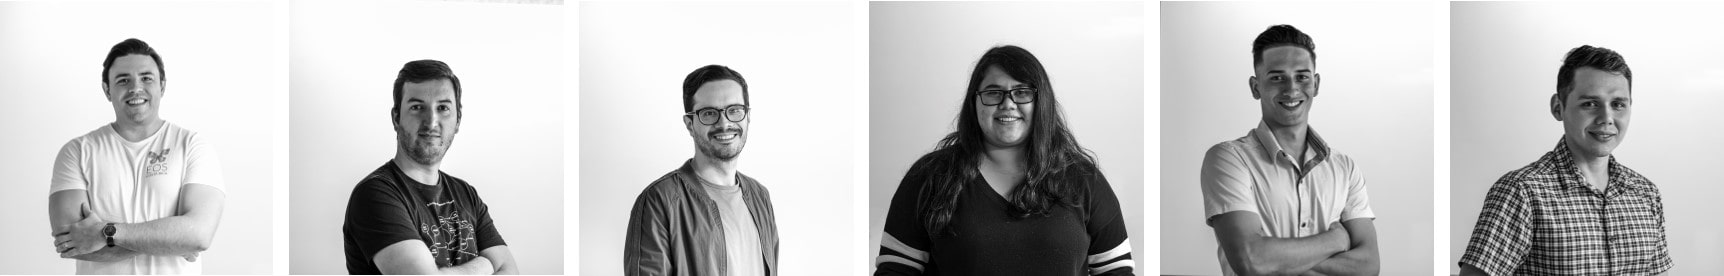
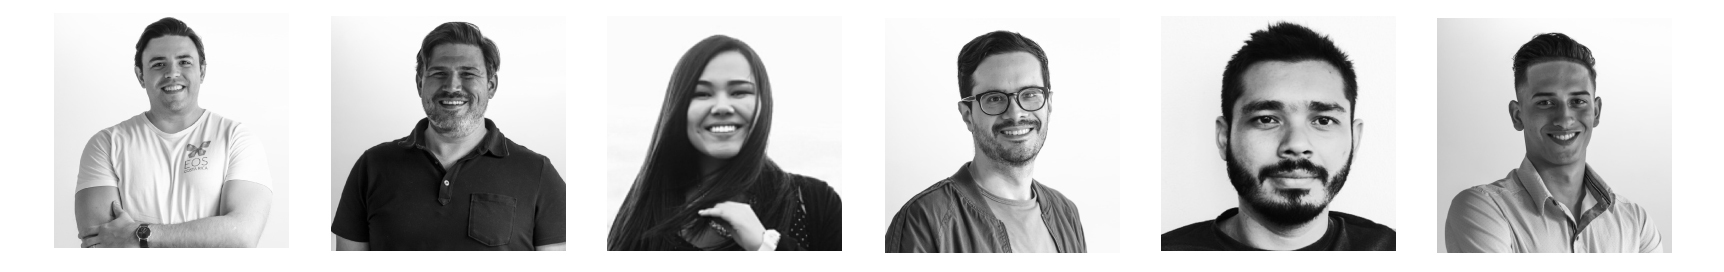
Content changes (#126)
* content(blog): delete english blog-post

* content(team): update content on team page

* content(projects): update projects content

* fix(projects): change logos sizes

diff --git a/src/pages/proyectos.js b/src/pages/proyectos.js
@@ -16,7 +16,14 @@ const MetaData={
   hrefLangPath: "https://eoscostarica.io/projects"
 }
 
-const ProjectsList = [
+const ProjectsList1 = [
+  {
+    img:"img/logos/eosrate.svg",
+    name:"EOS Rate",
+    details:"EOS Rate es una app de código abierto que permite a titulares de tokens EOS acceder a un sistema de calificaciones y portal de votación para productores de bloques y proxies en la blockchain EOS. ",
+    link:"https://eosrate.io/",
+    linkText:"Explore EOS Rate."
+  },
   {
     img:"img/logos/eosio.svg",
     name:"EOSIO Dashboard",
@@ -24,22 +31,17 @@ const ProjectsList = [
     link:"https://mainnet.eosio.online/",
     color:"#f8f8f8",
     linkText:"Monitor de red del EOS Mainnet."
-  },
+  }
+]
+
+const ProjectsList2 = [
   {
     img:"img/logos/ggoods.svg",
     name:"gGoods",
     details:"gGoods es un estándar para NFTs de código abierto que permite a organizaciones crear tokens para buscar financiamiento. Los donantes pueden usar sus NFTs como activos en juegos y apps. Lea más sobre gGoods. ",
     link:"https://ggoods.io/",
-    color:"#ffffff",
-    linkText:"Lea más sobre gGoods."
-  },
-  {
-    img:"img/logos/eosrate.svg",
-    name:"EOS Rate",
-    details:"EOS Rate es una app de código abierto que permite a titulares de tokens EOS acceder a un sistema de calificaciones y portal de votación para productores de bloques y proxies en la blockchain EOS. ",
-    link:"https://eosrate.io/",
     color:"#f8f8f8",
-    linkText:"Explore EOS Rate."
+    linkText:"Lea más sobre gGoods."
   },
   {
     img:"img/logos/inmutrust.svg",
@@ -52,10 +54,10 @@ const ProjectsList = [
   {
     img:"img/logos/eosioforum.svg",
     name:"Enterprise EOSIO Forum",
-    details:"Somos parte del Enterprise EOSIO Forum, una iniciativa de la comunidad para discutir sobre soluciones empresariales en blockchain implementando la tecnología EOSIO.",
+    details:"We are part of the Enterprise EOSIO Forum, a community-driven initiative to discuss enterprise blockchain solutions deploying EOSIO technology. ",
     link:"https://www.linkedin.com/company/enterprise-eosio-forum/",
     color:"#f8f8f8",
-    linkText:"Más sobre Enterprise EOSIO Forum."
+    linkText:"More about Enterprise EOSIO Forum."
   },
   {
     img:"img/logos/evodex.svg",
@@ -163,6 +165,17 @@ const OurProjects = () => {
       <Box className={clsx("containerSec", "reduceMarginTop")}>
         <Box className={clsx("section",{["sectionPadding"]: isMobile})}>
           <Grid container>
+            {ProjectsList1.map((project) => (
+              <Projects
+                key={project.name}
+                img={useBaseUrl(project.img)}
+                name={project.name}
+                details={project.details}
+                link={project.link}
+                color={project?.color}
+                linkText={project.linkText}
+              />
+            ))}
             <Grid item xs={12} md={6}>
               <Box className="projectsGridLeft">
                 <Box className="imgBoxProjects">
@@ -194,8 +207,8 @@ const OurProjects = () => {
               <Box className="projectsGridLeft">
                 <Box className="imgBoxProjects">
                   <img
-                    alt="SMARTGATE"
-                    src={useBaseUrl("img/logos/smartgate.svg")}
+                    alt="Smart EIR"
+                    src={useBaseUrl("img/logos/smarteir.svg")}
                   />
                 </Box>
               </Box>
@@ -203,7 +216,7 @@ const OurProjects = () => {
             <Grid style={{backgroundColor:'#f8f8f8'}} item xs={12} md={6}>
               <Box className="projectsGridRight">
                 <Box className="h3Box">
-                  <h3 >SMARTGATE</h3>
+                  <h3 >Smart EIR</h3>
                 </Box>
                 <p>
                   Una plataforma basada en blockchain que brinda soluciones
@@ -211,7 +224,7 @@ const OurProjects = () => {
                   logística de contenedores y transmisión en tiempo real
                   de datos requeridos para el intercambio de carga. 
                   <a href="https://smartgate.tech/" target="_blank">
-                    Aprenda más sobre SMARTGATE.
+                    Aprenda más sobre Smart EIR.
                   </a>
                 </p>
               </Box>
@@ -251,14 +264,14 @@ const OurProjects = () => {
               </Box>
             </Grid>
           </Grid>
-          {ProjectsList.map((project) => (
+          {ProjectsList2.map((project) => (
             <Projects
               key={project.name}
               img={useBaseUrl(project.img)}
               name={project.name}
               details={project.details}
               link={project.link}
-              color={project.color}
+              color={project?.color}
               linkText={project.linkText}
             />
           ))}

diff --git a/src/pages/index.js b/src/pages/index.js
@@ -398,9 +398,9 @@ const Home = () => {
                     <h3>El equipo</h3>
                   </Box>
                   <p>
-                  Hemos armado un equipo latinoamericano con una mentalidad de solucionar problemas y experiencia en sus áreas de conocimiento.
-                  Operamos como un equipo distribuido en un ambiente Agile y nos esforzamos por contratar talento fuera de áreas urbanas para
-                  apoyar carreras técnicas en zonas rurales.
+                    Hemos armado un equipo latinoamericano con una mentalidad de solucionar problemas y experiencia en sus áreas de conocimiento.
+                    Operamos como un equipo distribuido en un ambiente Agile y nos esforzamos por contratar talento fuera de áreas urbanas para
+                    apoyar carreras técnicas en zonas rurales.
                       <a href={"https://www.linkedin.com/company/eoscostarica/"} target="_blank"> Síganos en LinkedIn.</a>
                   </p>
                 </Grid>
@@ -536,8 +536,8 @@ const Home = () => {
               <Box className="projectsGridLeft">
                 <Box className="imgBoxProjects">
                   <img
-                    alt="Lifebank"
-                    src={useBaseUrl("img/logos/lifebank.svg")}
+                    alt="EOS Rate"
+                    src={useBaseUrl("img/logos/eosrate.svg")}
                   />
                 </Box>
               </Box>
@@ -545,23 +545,15 @@ const Home = () => {
             <Grid style={{backgroundColor:'#f8f8f8'}} item xs={12} md={6}>
               <Box className="projectsGridRight">
                 <Box className="h3Box">
-                  <h3 >Lifebank</h3>
+                  <h3 >EOS Rate</h3>
                 </Box>
                 <p>
-                  Una app de código abierto basada en blockchain para incentivar las donaciones de sangre al crear un círculo virtuoso de
-                  valor entre donantes, bancos de sangre y negocios locales, e impulsada por una economía interna de tokens. Proyecto
-                  ganador de la competencia “
-                  <a
-                    href="https://eos.io/news/winner-of-coding-for-change-virtual-hackathon-lifebank/"
-                    target="_blank"
-                  >
-                    Coding for Change
-                  </a>{"” "} de {" "}
-                  <a href="https://block.one/" target="_blank">
-                    block.one.
-                  </a>{" "}
-                  <a href="http://lifebank.io/" target="_blank">
-                  Lea más sobre Lifebank.
+                  EOS Rate es una app de código abierto que permite a
+                  titulares de tokens EOS acceder a un sistema de calificaciones
+                  y portal de votación para productores de bloques y proxies
+                  en la blockchain EOS.{" "}
+                  <a href="https://eosrate.io/" target="_blank">
+                    Explore EOS Rate.
                   </a>
                 </p>
               </Box>
@@ -570,8 +562,8 @@ const Home = () => {
               <Box className="projectsGridLeft">
                 <Box className="imgBoxProjects">
                   <img
-                    alt="SMARTGATE"
-                    src={useBaseUrl("img/logos/smartgate.svg")}
+                    alt="EOSIO Dashboard"
+                    src={useBaseUrl("img/logos/eosio.svg")}
                   />
                 </Box>
               </Box>
@@ -579,14 +571,15 @@ const Home = () => {
             <Grid style={{backgroundColor:'#ffffff'}} item xs={12} md={6}>
               <Box className="projectsGridRight">
                 <Box className="h3Box">
-                  <h3 >SMARTGATE</h3>
+                  <h3 >EOSIO Dashboard</h3>
                 </Box>
                 <p>
-                  Una plataforma basada en blockchain que brinda soluciones para entradas y salidas de puertos para la industria de logística de contenedores y transmisión
-                  en tiempo real de datos requeridos para el intercambio de carga.
+                  EOSIO Dashboard es un proyecto de código abierto que permite
+                  a usuarios visualizar la distribución de recompensas en la
+                  red EOS en la búsqueda de rendición de cuentas y transparencia.
                   {" "}
                   <a href="https://smartgate.tech/" target="_blank">
-                  Aprenda más sobre SMARTGATE.
+                    Monitor de red del EOS Mainnet.
                   </a>
                 </p>
               </Box>

diff --git a/src/pages/la-empresa.js b/src/pages/la-empresa.js
@@ -381,24 +381,17 @@ const TheCompany = () => {
                 <Box className="imgBoxTheCompany">
                   <img
                     className="sizeImageTheCompany"
-                    src={useBaseUrl("img/logos/lifebank.svg")}
+                    alt="EOS Rate"
+                    src={useBaseUrl("img/logos/eosrate.svg")}
                   />
                 </Box>
                 <p>
-                  Una app de código abierto basada en blockchain para incentivar las donaciones de sangre al crear un círculo virtuoso de
-                  valor entre donantes, bancos de sangre y negocios locales, e impulsada por una economía interna de tokens. Proyecto
-                  ganador de la competencia “
-                  <a
-                    href="https://eos.io/news/winner-of-coding-for-change-virtual-hackathon-lifebank/"
-                    target="_blank"
-                  >
-                    Coding for Change
-                  </a>{"” "} de {" "}
-                  <a href="https://block.one/" target="_blank">
-                    block.one.
-                  </a>{" "}
-                  <a href="http://lifebank.io/" target="_blank">
-                  Lea más sobre Lifebank.
+                  EOS Rate es una app de código abierto que permite a titulares
+                  de tokens EOS acceder a un sistema de calificaciones y portal
+                  de votación para productores de bloques y proxies en la
+                  blockchain EOS.{" "}
+                  <a href="https://eosrate.io/" target="_blank">
+                    Explore EOS Rate.
                   </a>
                 </p>
               </Grid>
@@ -406,15 +399,18 @@ const TheCompany = () => {
                 <Box className="imgBoxTheCompany">
                   <img
                     className="sizeImageTheCompany"
-                    src={useBaseUrl("img/logos/smartgate.svg")}
+                    alt="EOSIO Dashboard"
+                    src={useBaseUrl("img/logos/eosio.svg")}
                   />
                 </Box>
                 <p>
-                  Una plataforma basada en blockchain que brinda soluciones para entradas y salidas de puertos para la industria de logística de contenedores y transmisión
-                  en tiempo real de datos requeridos para el intercambio de carga.
+                  EOSIO Dashboard es un proyecto de código abierto que
+                  permite a usuarios visualizar la distribución de
+                  recompensas en la red EOS en la búsqueda de
+                  rendición de cuentas y transparencia.
                   {" "}
-                  <a href="https://smartgate.tech/" target="_blank">
-                  Aprenda más sobre SMARTGATE.
+                  <a href="https://mainnet.eosio.online/" target="_blank">
+                    Monitor de red del EOS Mainnet.
                   </a>
                 </p>
               </Grid>
@@ -422,7 +418,7 @@ const TheCompany = () => {
                 <br/>
                 <p>
                 Puede ver más de nuestros proyectos más recientes <a 
-                  href="https://eoscostarica.io/projects">
+                  href="https://es.eoscostarica.io/proyectos/">
                     aquí
                   </a>.
                 </p>
